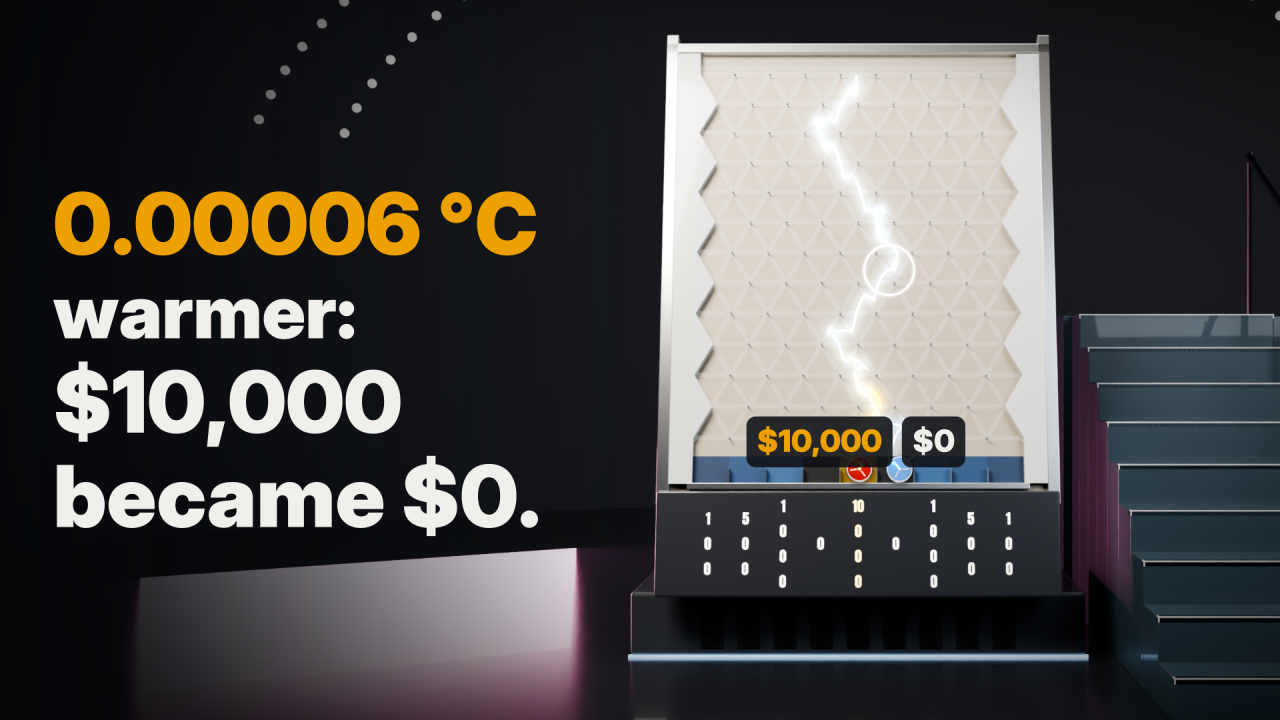
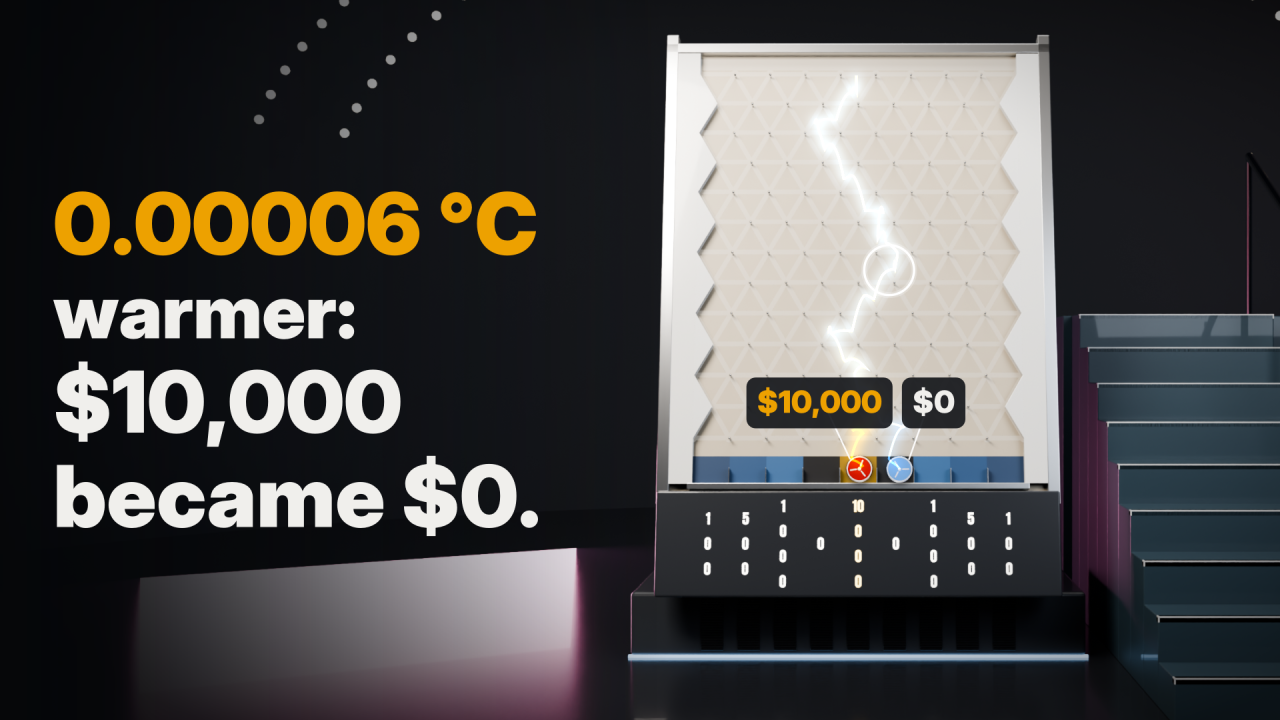
Thumbnails: prize labels back above the chips in every version
Claude-Session: https://claude.ai/code/session_01S7EUMzPhLyDgSQHoFb2Ud4

Changed region(s): [[0.5625, 0.5194, 0.7812, 0.6722]]

diff --git a/plinko/thumbs_chaos.py b/plinko/thumbs_chaos.py
@@ -40,7 +40,7 @@ def shot_frame(name, t, overlay):
     return C3.add_glow(img, gsurf), cm, crop
 
 
-def pill_layer(to_px, win, rep, size, split_t=None):
+def pill_layer(to_px, win, rep, size, split_t=None, dy=-64):
     """Prize pills for the two landing slots, and (when split_t is given) a ring where the two paths part. Pills for
     neighbouring slots sit side by side, each pushed out away from the other, with a leader line to its chip."""
     W_ = CC.W
@@ -56,12 +56,12 @@ def pill_layer(to_px, win, rep, size, split_t=None):
                 ctx.set_source_rgba(1, 1, 1, al)
                 ctx.set_line_width(wd)
                 ctx.stroke()
-        y_lab = C3.B.last_row_y() + 0.1 * W_
+        y_lab = C3.B.last_row_y() + 0.2 * W_
         if abs(kw - kr) == 1:
             d = 1 if kw > kr else -1
             for k, rec, lab, gold, side in ((kw, win, "$10,000", True, d), (kr, rep, D.SLOT_LABELS[kr - 1], False, -d)):
                 chip = to_px(*rec[-1, 1:3])
-                q = to_px(k * W_ + side * 1.05 * W_, y_lab)
+                q = to_px(k * W_ + side * 1.05 * W_, y_lab) + np.array([0.0, dy])
                 ctx.new_path()
                 ctx.move_to(q[0] - side * 10, q[1] + 8)
                 ctx.line_to(chip[0] + side * r_px * 0.7, chip[1] - r_px * 0.7)
@@ -71,7 +71,7 @@ def pill_layer(to_px, win, rep, size, split_t=None):
                 D.pill(ctx, lab, q[0], q[1], size, D.GOLD if gold else D.INK)
         else:
             for k, lab, gold in ((kw, "$10,000", True), (kr, D.SLOT_LABELS[kr - 1], False)):
-                q = to_px(k * W_, y_lab)
+                q = to_px(k * W_, y_lab) + np.array([0.0, dy])
                 D.pill(ctx, lab, q[0], q[1], size, D.GOLD if gold else D.INK)
     return draw
 
@@ -174,7 +174,7 @@ def photo_frame(win, rep, ox=60, oy=105, split_t=None):
     paste("blue", rep[-1, 1:3], rep[-1, 3])
     paste("red", win[-1, 1:3], win[-1, 3])
 
-    pills = pill_layer(lambda x, y: proj([[x, y]])[0], win, rep, 40, split_t)
+    pills = pill_layer(lambda x, y: proj([[x, y]])[0], win, rep, 40, split_t, dy=-50)
     return img, pills, x0
 
 
